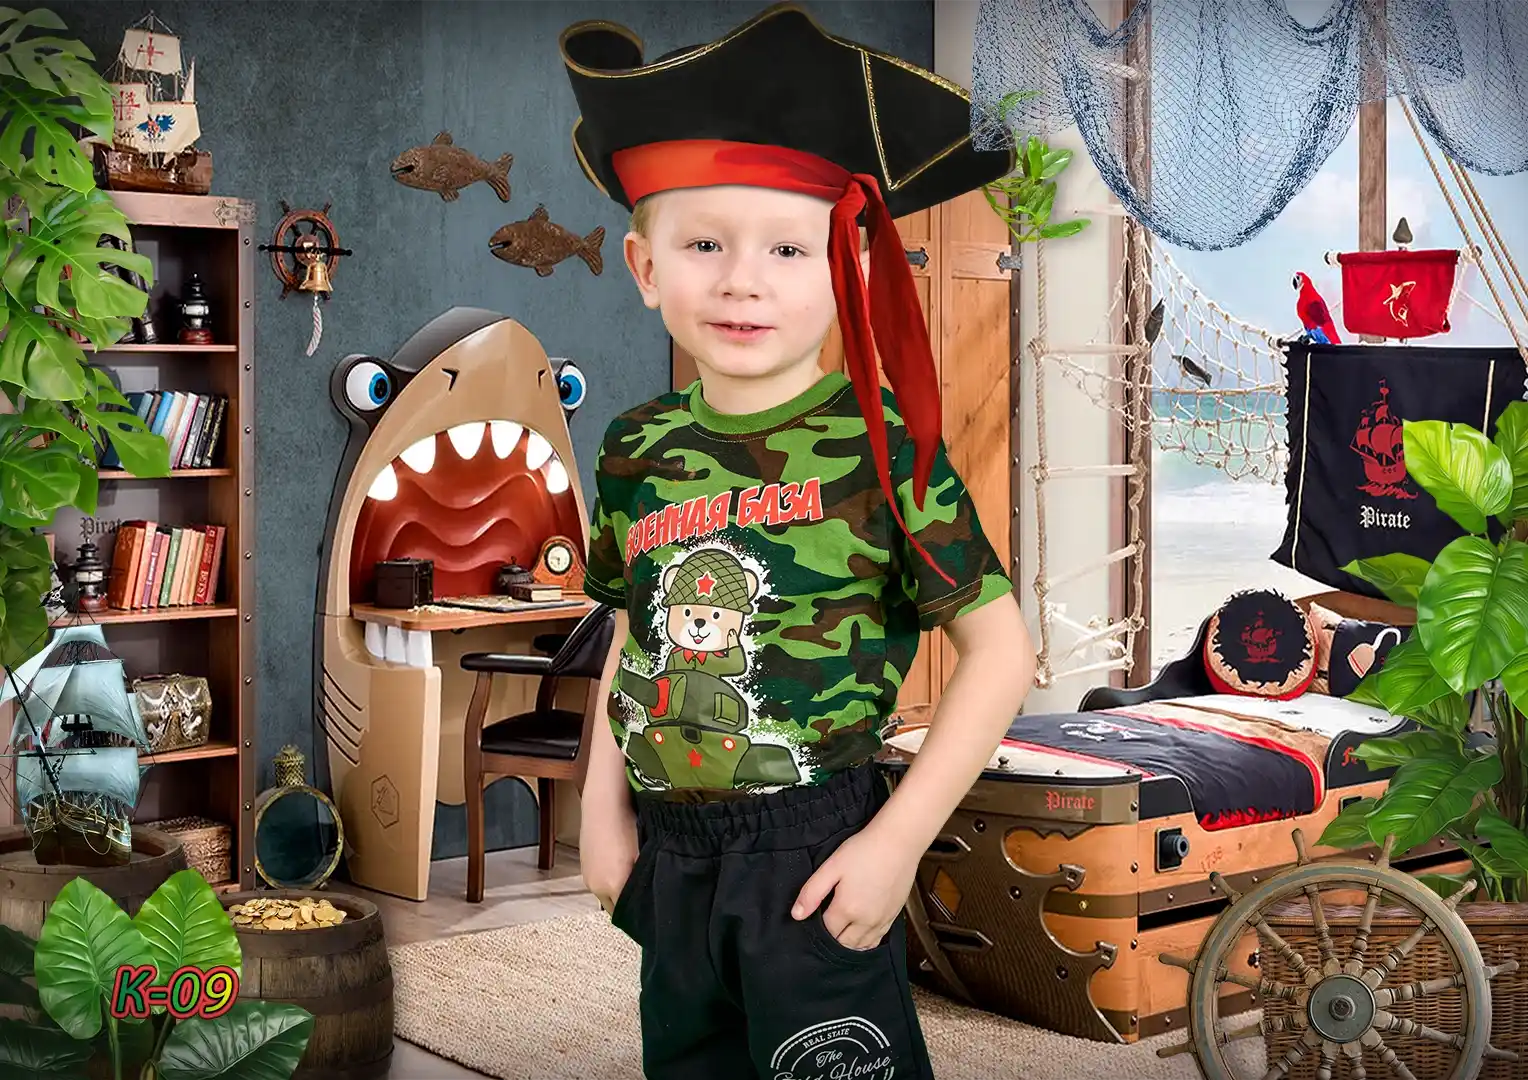
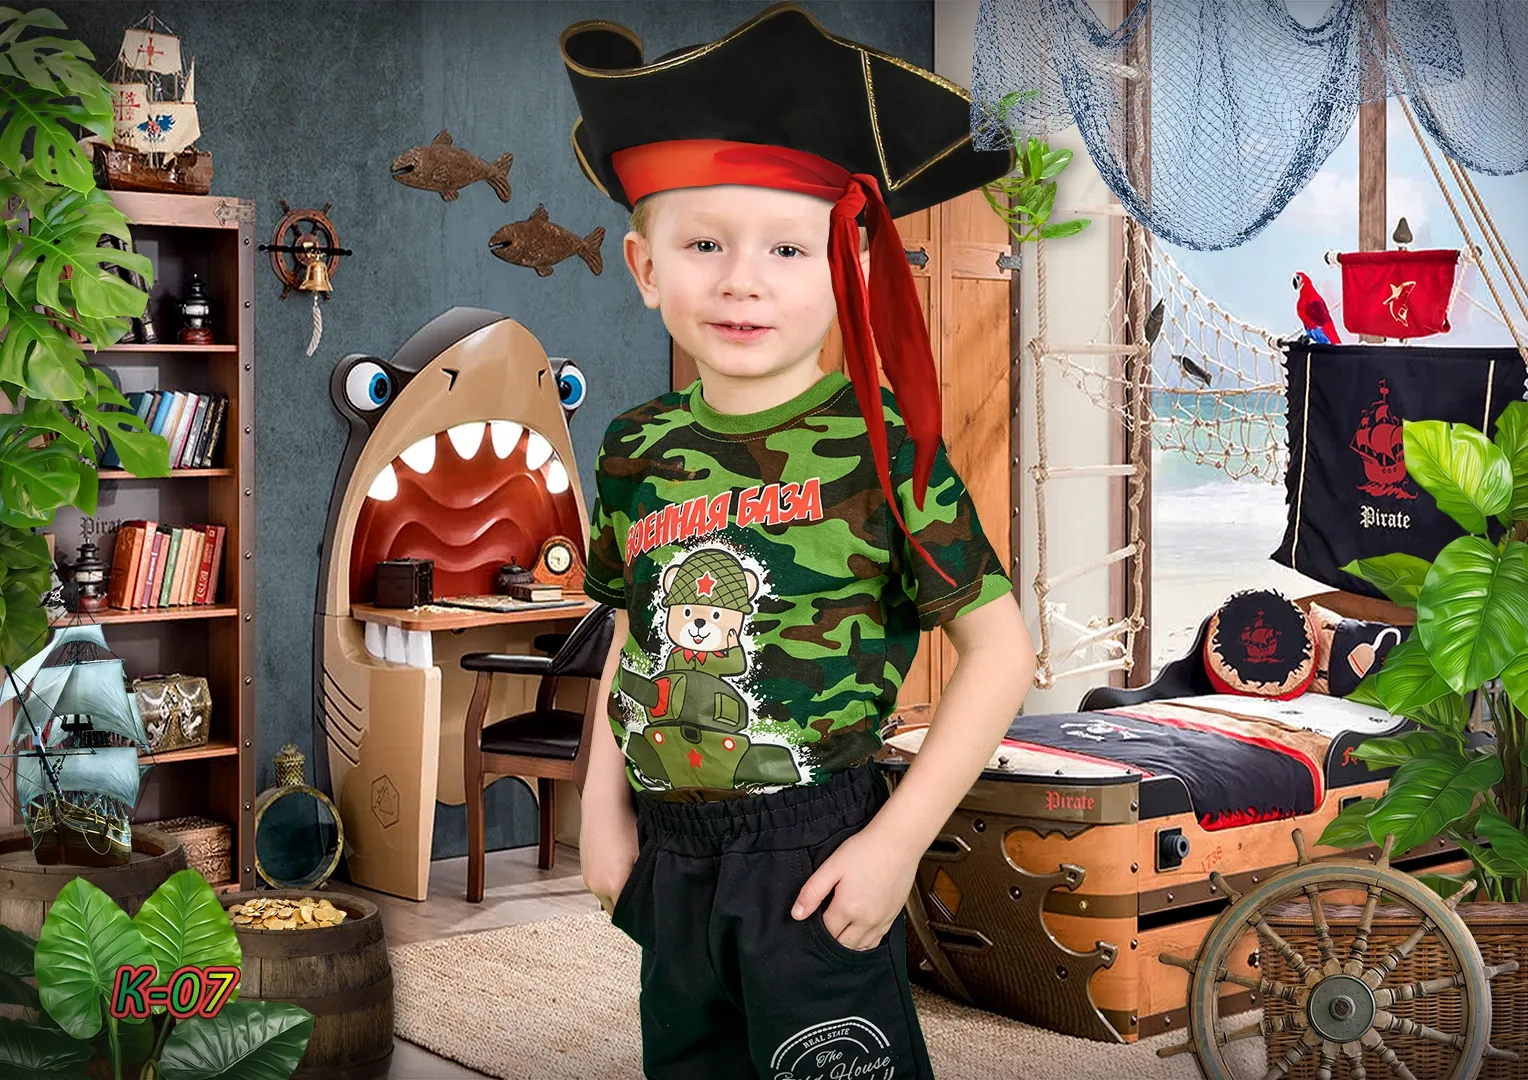
price pokosnoe

Changed region(s): [[0.4614, 0.4583, 0.5229, 0.4889], [0.123, 0.8861, 0.1538, 0.9472], [0.6459, 0.0917, 0.6767, 0.1222]]

diff --git a/index.html b/index.html
@@ -121,7 +121,7 @@ Fancybox.bind("[data-fancybox]", {
             <h4>Каждый ребенок фотографируется отдельно, далее все дети собираются
                 на выбранном макете. 
             </h4>
-            <h4>Cтоимость таких фотографий 650 руб, размер
+            <h4>Cтоимость таких фотографий 700 руб, размер
                 А4 (21х30) см, по умолчанию фотографии ламинируются.
             </h4>
         </div>
@@ -183,7 +183,7 @@ Fancybox.bind("[data-fancybox]", {
        
         <div class="obshie">
             <h3>Детские коллажи печатаются в размерах:</h3>
-            <h4> 10х15 350 руб 15х20 тоже 400 руб 21х30 550руб за одно фото</h4>
+            <h4> 15х20  500 руб 21х30 600руб за одно фото</h4>
 
 </div>
         <!-- Slider main container -->
